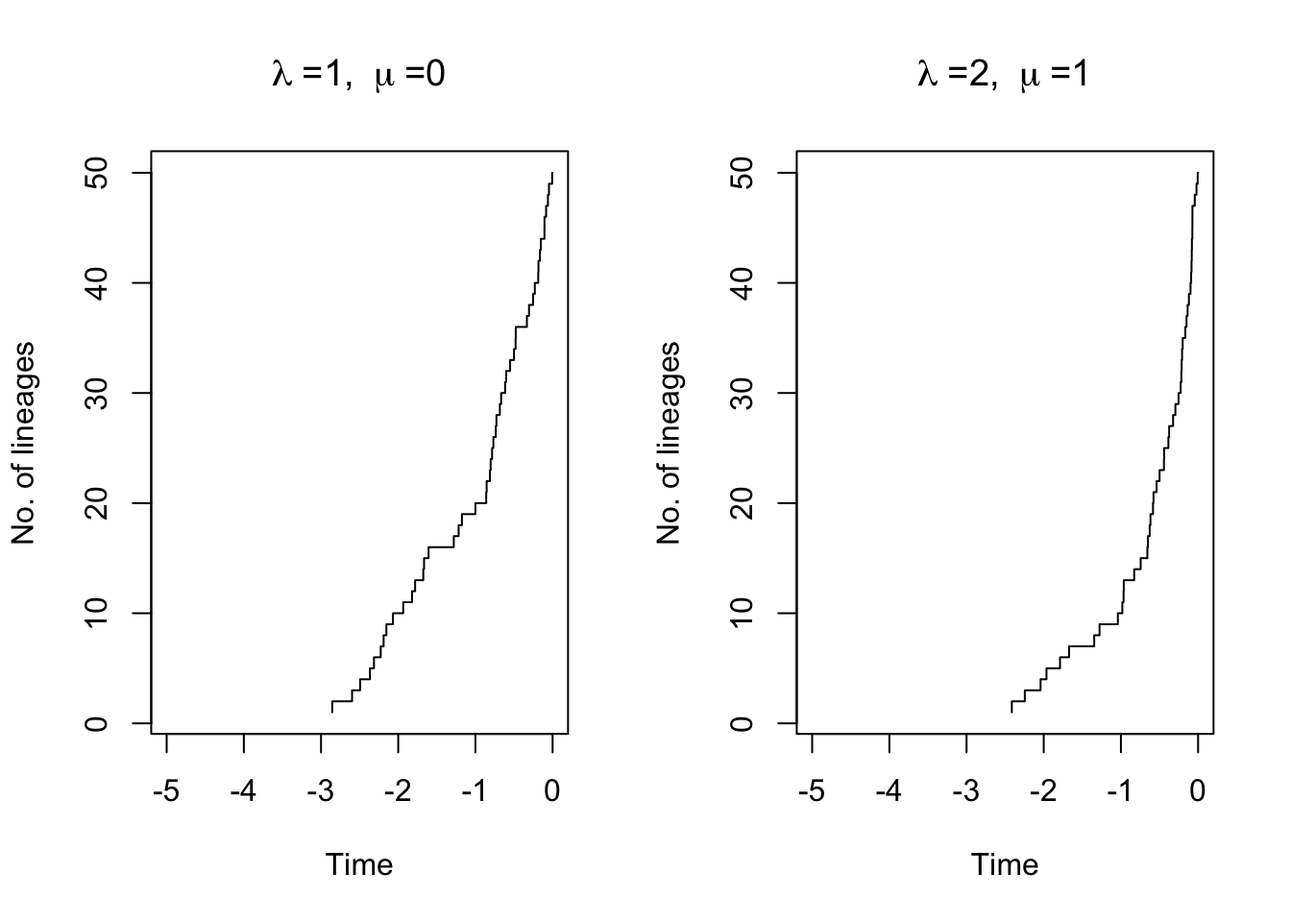
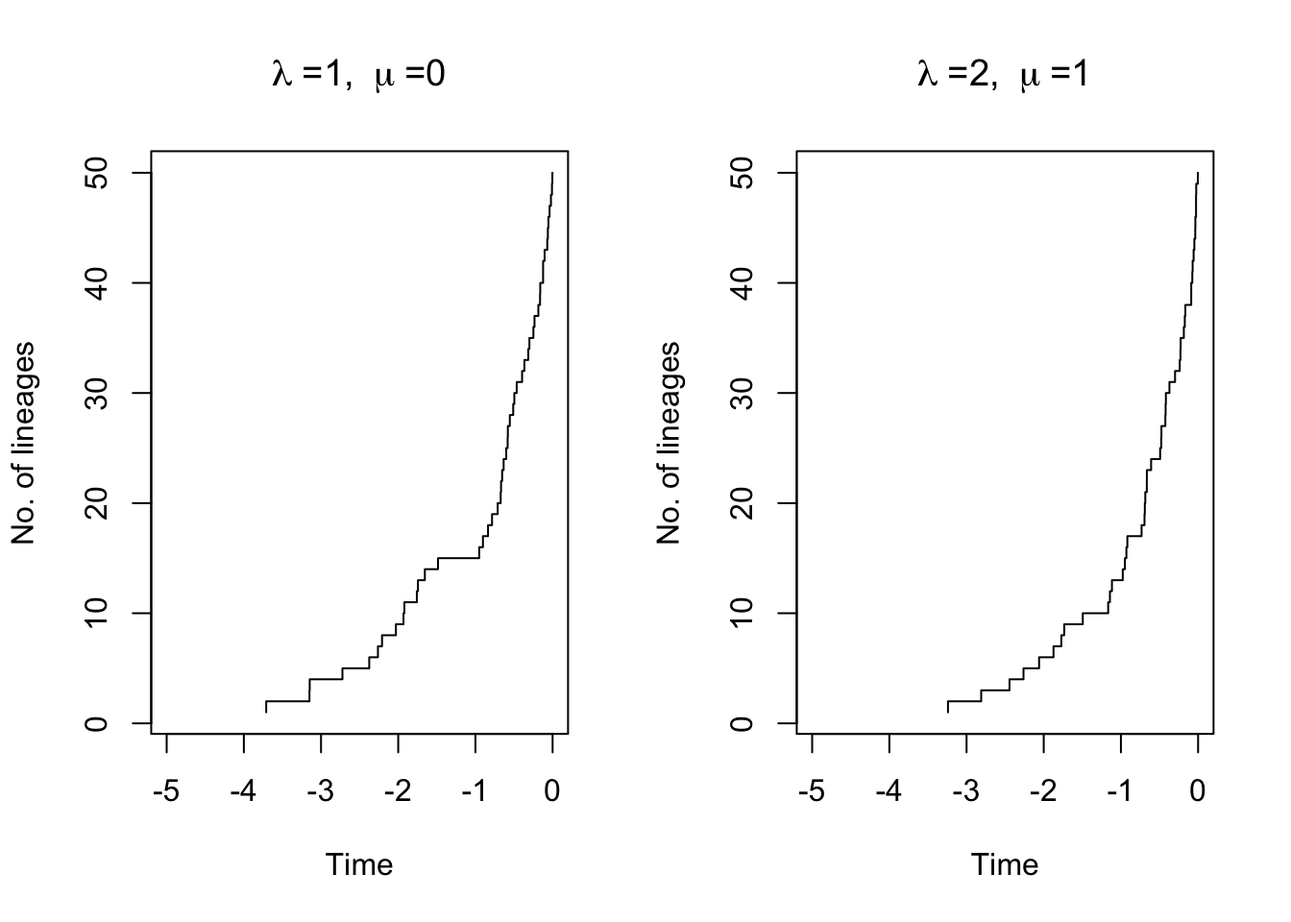
adding exercixes to yule

diff --git a/docs/topics/sse_models/fit_bd.html b/docs/topics/sse_models/fit_bd.html
@@ -211,7 +211,7 @@ window.Quarto = {
 <section id="birth-death-process" class="level2">
 <h2 class="anchored" data-anchor-id="birth-death-process">Birth death process</h2>
 <p>Now, we consider the birth-death process. Lineages split at rate <span class="math inline">\(\lambda\)</span>, and can die at rate <span class="math inline">\(\mu\)</span>.</p>
-<p>If the death rate is positive (<span class="math inline">\(\mu &gt; 0\)</span>), the process is fundamentally different. This is because the process can go extinct.</p>
+<p>If the death rate is positive (<span class="math inline">\(\mu &gt; 0\)</span>), the process is fundamentally different from the Yule model. This is because the process can go extinct.</p>
 <p>Let’s use the lapply function to generate a list of simulated outputs (lapply is like a for loop). Instead of simulating up to time <span class="math inline">\(t\)</span>, let’s simulate trees up to a fixed number of taxa – 50, in our case.</p>
 <p>Let’s see how frequently the process goes extinct before we reach 50 taxa.</p>
 <div class="cell">
@@ -231,7 +231,7 @@ window.Quarto = {
 <div class="cell">
 <div class="code-copy-outer-scaffold"><div class="sourceCode cell-code" id="cb4"><pre class="sourceCode r code-with-copy"><code class="sourceCode r"><span id="cb4-1"><a href="#cb4-1" aria-hidden="true" tabindex="-1"></a><span class="fu">print</span>(numdieoffs)</span></code></pre></div><button title="Copy to Clipboard" class="code-copy-button"><i class="bi"></i></button></div>
 <div class="cell-output cell-output-stdout">
-<pre><code>[1] 27</code></pre>
+<pre><code>[1] 32</code></pre>
 </div>
 </div>
 <p>This is sort of interesting. In the first tree we simulated above, we set <span class="math inline">\(\lambda=1\)</span> and <span class="math inline">\(\mu=0\)</span>, for a net birth rate equal to 1. In this second example, we set <span class="math inline">\(\lambda=2\)</span> and <span class="math inline">\(\mu=1\)</span>. The net birth rate still equals 1, but extinction is far more likely now.</p>
@@ -282,12 +282,11 @@ window.Quarto = {
 <li><p>Instead of simulating trees up to a fixed number of taxa, simulate trees up to a fixed time. Do you notice any differences between Yule and birth death trees in terms of the number of taxa produced by time <span class="math inline">\(t\)</span>?</p></li>
 </ol>
 </section>
-<section id="estimating-parameters-using-likelihoods" class="level2">
-<h2 class="anchored" data-anchor-id="estimating-parameters-using-likelihoods">Estimating parameters using likelihoods</h2>
-<p>There is another way to determine whether these trees are statistically indistinguishable or not. We can use the likelihood function, which quantifies the probability (density) of observing a particular tree given model parameters. If the trees are statistically indistinguishable, then it should <strong>not</strong> be possible for us to estimate the parameters of the models. If we <strong>can</strong> estimate parameters, then that means the trees contain information about whether the underlying process was Yule or birth-death.</p>
+<section id="likelihood-based-inference" class="level2">
+<h2 class="anchored" data-anchor-id="likelihood-based-inference">Likelihood-based inference</h2>
+<p>There is a principled way to determine whether a tree was produced by one process or the other. We can use the likelihood function, which quantifies the probability (density) of observing a particular tree given model parameters. The idea is to use a Generalized Likelihood Ratio test. This works because the Yule model is “nested” in the birth-death model. Setting <span class="math inline">\(\mu=0\)</span> in the birth-death model produces the Yule model.</p>
+<p>The idea behind the GLR test is that, although a more complicated model will always fit data better than a simpler one, it may not fit data “that much” better if the underlying process is in fact well-described by a simpler model. The GLR test provides way to quantify whether the improvement in fit of a more complicated model is meaningful, or not.</p>
 <p>We’ve been doing Maximum Likelihood a lot up to now. In case you need extra reading material, <a href="https://en.wikipedia.org/wiki/Maximum_likelihood_estimation">here you go</a>.</p>
-<p>We’ve seen a couple of examples of likelihood functions already in this tutorial. The solutions to the Master equations for these processes tell us the probability, <span class="math inline">\(p_n(t)\)</span>, of observing <span class="math inline">\(n\)</span> lineages by time <span class="math inline">\(t\)</span>. Put another way, this gives us the probability of observing a phylogenetic tree of height <span class="math inline">\(t\)</span> with <span class="math inline">\(n\)</span> taxa.</p>
-<p>The terminology ``likelihood’’ means that we consider <span class="math inline">\(p_n(t)\)</span> as a function of the model parameters (<span class="math inline">\(\lambda\)</span> in the Yule process, or <span class="math inline">\((\lambda, \mu)\)</span> in the birth-death process). Maximum likelihood means that, given our tree of height <span class="math inline">\(t\)</span> with <span class="math inline">\(n\)</span> taxa, we maximize <span class="math inline">\(p_n(t)\)</span> with respect to the parameters of the model. These optimal parmeter values are the Maximum Likelihood Estimate.</p>
 <p>We can create likelihood functions for these trees like so:</p>
 <div class="cell">
 <div class="code-copy-outer-scaffold"><div class="sourceCode cell-code" id="cb8"><pre class="sourceCode r code-with-copy"><code class="sourceCode r"><span id="cb8-1"><a href="#cb8-1" aria-hidden="true" tabindex="-1"></a>loglik.yule <span class="ot">&lt;-</span> <span class="fu">make.bd</span>(tree_yule)</span>
@@ -302,12 +301,12 @@ window.Quarto = {
 </div>
 <div class="code-copy-outer-scaffold"><div class="sourceCode cell-code" id="cb11"><pre class="sourceCode r code-with-copy"><code class="sourceCode r"><span id="cb11-1"><a href="#cb11-1" aria-hidden="true" tabindex="-1"></a><span class="fu">print</span>(mle.yule<span class="sc">$</span>lnLik)</span></code></pre></div><button title="Copy to Clipboard" class="code-copy-button"><i class="bi"></i></button></div>
 <div class="cell-output cell-output-stdout">
-<pre><code>[1] 92.3456</code></pre>
+<pre><code>[1] 96.51845</code></pre>
 </div>
 <div class="code-copy-outer-scaffold"><div class="sourceCode cell-code" id="cb13"><pre class="sourceCode r code-with-copy"><code class="sourceCode r"><span id="cb13-1"><a href="#cb13-1" aria-hidden="true" tabindex="-1"></a><span class="fu">print</span>(mle.yule<span class="sc">$</span>par)</span></code></pre></div><button title="Copy to Clipboard" class="code-copy-button"><i class="bi"></i></button></div>
 <div class="cell-output cell-output-stdout">
-<pre><code>      lambda           mu 
-9.158205e-01 1.908196e-17 </code></pre>
+<pre><code>   lambda        mu 
+1.4395870 0.8383959 </code></pre>
 </div>
 </div>
 <p>Looks pretty close.</p>
@@ -320,16 +319,15 @@ window.Quarto = {
 </div>
 <div class="code-copy-outer-scaffold"><div class="sourceCode cell-code" id="cb17"><pre class="sourceCode r code-with-copy"><code class="sourceCode r"><span id="cb17-1"><a href="#cb17-1" aria-hidden="true" tabindex="-1"></a><span class="fu">print</span>(mle.bd<span class="sc">$</span>lnLik)</span></code></pre></div><button title="Copy to Clipboard" class="code-copy-button"><i class="bi"></i></button></div>
 <div class="cell-output cell-output-stdout">
-<pre><code>[1] 116.5665</code></pre>
+<pre><code>[1] 106.8873</code></pre>
 </div>
 <div class="code-copy-outer-scaffold"><div class="sourceCode cell-code" id="cb19"><pre class="sourceCode r code-with-copy"><code class="sourceCode r"><span id="cb19-1"><a href="#cb19-1" aria-hidden="true" tabindex="-1"></a><span class="fu">print</span>(mle.bd<span class="sc">$</span>par)</span></code></pre></div><button title="Copy to Clipboard" class="code-copy-button"><i class="bi"></i></button></div>
 <div class="cell-output cell-output-stdout">
 <pre><code>  lambda       mu 
-2.072959 1.089829 </code></pre>
+1.858154 1.170094 </code></pre>
 </div>
 </div>
-<p>Seems like it’s kind of in the ballpark.</p>
-<p>One downside with this is that we are dealing with fairly small trees, and stochasticity is probably introducing lots of noise. If our goal is to understand the types of information we are likely to recover from realizations of these processes, we need to look at a large number of simulations so that statistical regularity kicks in.</p>
+<p>Seems like it’s kind of in the ballpark. In the exercises at the end, you are tasked to carry out a GLR test on these trees.</p>
 </section>
 <section id="benchmarking-from-simulations" class="level2">
 <h2 class="anchored" data-anchor-id="benchmarking-from-simulations">Benchmarking from simulations</h2>
@@ -427,49 +425,80 @@ window.Quarto = {
 <h2 class="anchored" data-anchor-id="birth-death-sampling-models-and-the-unidentifiability-problem">Birth-death-sampling models (and the unidentifiability problem)</h2>
 <p>In the previous section, we saw that it is in principle possible to estimate paramters of the Yule model and the birth-death model. The statistical behavior of the Maximum Likelihood Estimates might leave something to be desired (especially for the extinction rate <span class="math inline">\(\mu\)</span>), but in the limit as the number of taxa tends to infinity, our estimators should be converging in expectation to the <a href="https://en.wikipedia.org/wiki/Consistency_(statistics)">ground truth parameter values</a>.</p>
 <p>Models with this property are said to be <a href="https://en.wikipedia.org/wiki/Identifiability">identifiable</a>. The Yule Process and the birth death model are identifiable (assuming that the rates are fixed constants in time). Seemingly innocuous modifications to these models render them unidentifiable.</p>
-<p>The final example we will consider in this tutorial is the birth-death-sampling model. The primary motivation for considering the birth-death-sampling model comes from epidemiology. In that context, pathogens spread between hosts, and infection events correspond to bifurcation events in the pathogen phylogeny. Infected people are also observed over a period of time (perhaps as they show up at the hospital). Consequently, the trees produced are not ultrametric, they are heterochronous. In practice, the vast majority of individuals who are infected are also never sampled, so observed pathogen phylogenies represent a small piece of the true underlying phylogeny.</p>
-<p>In this model, three things can happen:</p>
+<p>The final examples we will consider in this tutorial is the birth-death-sampling model and the birth-death-sampling-through-time model (say that three times in a row).</p>
+<p>The birth-death-sampling model is just a birth-death model, with the extra feature that we only observe a fraction of the tips at the end. In these trees, tips are observed at the same point in time, and so the trees are ultrametric.</p>
+<p>The birth-death-sampling-through-time model accommodates a rate of sampling through time. The trees produced by this process are heterochronous, i.e.&nbsp;not ultrametric.</p>
+<p>The primary motivation for considering the birth-death-sampling-through-time model comes from epidemiology. In that context, pathogens spread between hosts, and infection events correspond to bifurcation events in the pathogen phylogeny. Infected people are also observed over a period of time (perhaps as they show up at the hospital).</p>
+<p>In the sampling-through-time model, three things can happen:</p>
 <ol type="1">
 <li><p>A lineage can split in two (at rate <span class="math inline">\(\lambda\)</span>); this corresponds to a new transmission event</p></li>
 <li><p>A lineage can die (at rate <span class="math inline">\(\mu\)</span>); this corresponds to either (i) an infected host dying, or (ii) an infected host getting better before transmitting disease</p></li>
 <li><p>A lineage (which resides in an infected host) can be sampled (at rate <span class="math inline">\(\psi\)</span>)</p></li>
 </ol>
-<p>Arguably the most important aspect of this process is that we only observe the lineages that get sampled. The phylogeny describes ancestry of these sampled lineages. This is potentially a very small portion of the entire tree.</p>
-<p>You might be able to intuit the problem already. We didn’t emphasize this in the birth-death model earlier, but in that context we are in fact also observing a subset of the entire phylogeny. If we simulate a birth-death model up to time <span class="math inline">\(t\)</span>, we never observe lineages that die out before time <span class="math inline">\(t\)</span>. The Master equation abstracted away the tree produced by the stochastic process, but in fact it can be helpful to consider dynamic updates to a phylogeny as time proceeds. A birth event corresponds to a lineage bifurcating into two lineages. A death event is somewhat different: when a lienage dies, it gets pruned away from the tree entirely. Thus, a phylogeny produced under a birth-death model is missing all of the lineages that died off before the end of the simulation.</p>
-<p>The heart of the identifiability problem in the birth-death-sampling model is that sampling functions in a very similar way to death. Lineages that are not sampled are pruned away from the tree, just like lineages that die.</p>
-<p>If a lineage can either bifurcate at rate <span class="math inline">\(\lambda\)</span>, go extinct at rate <span class="math inline">\(\mu\)</span>, or be sampled at rate <span class="math inline">\(\psi\)</span>, this is a competing rates problem. The probability a particular lineage gets sampled is <span class="math inline">\(\psi/(\lambda+\mu+\psi)\)</span>. The probability a lineage dies is <span class="math inline">\(\mu/(\lambda+\mu+\psi)\)</span>. You immediately see how to determine the probability a lineage bifurcates before those other two events take place. Some extensions of this model assume lineages can still transmit after sampling, but in this basic model we will assume that sampled lineages are quarantined and treated so that transmission is impossible.</p>
-<p>Now, if we simulate birth-death-sampling models and try to estimate parameters, we should expect to run into difficulties because it should be impossible to distinguish between lineages that are missing because they died out versus because they were never sampled. Because we cannot distinguish these types of lineages from each other, there should not be any way for us to determine the relative magnitudes of <span class="math inline">\(\psi\)</span> and <span class="math inline">\(\mu\)</span>.</p>
-<p>We will use the castor package to see if this reasoning is correct or not.</p>
+<p>These three rates appear in the Backward Kolmogorov Equation to calculate the tree likelihood. In the ultrametric case (sampling occurs at one point in time), the Backward Kolmogorov Equation looks like the birth-death model, but the initial conditions at the tips incorporate sampling probabilities.</p>
+<p>The most important aspect of these processes is that we only observe the lineages that get sampled. The phylogeny describes ancestry of these sampled lineages. This is potentially a very small portion of the entire tree.</p>
+<p>You might be able to intuit the problem already. We didn’t emphasize this in the birth-death model earlier, but in that context we are in fact also observing a subset of the entire phylogeny. If we simulate a birth-death model up to time <span class="math inline">\(t\)</span>, we never observe lineages that die out before time <span class="math inline">\(t\)</span>. The Master equation abstracted away the tree produced by the stochastic process, but in fact it can be helpful to consider dynamic updates to a phylogeny as time proceeds. A birth event corresponds to a lineage bifurcating into two lineages. A death event is somewhat different: when a lineage dies, it gets pruned away from the tree entirely. Thus, a phylogeny produced under a birth-death model is missing all of the lineages that died off before the end of the simulation.</p>
+<p>The heart of the identifiability problem in the birth-death-sampling model is that sampling functions in a very similar way to death. Lineages that are not sampled are pruned away from the tree, just like lineages that die. It turns out that this is a huge problem when sampling occurs at one point in time (ultrametric trees), but is less of a problem when sampling occurs through time (heterochronous trees).</p>
+<p>We will use the castor package to see if this for ourselves.</p>
 <div class="cell">
-<div class="code-copy-outer-scaffold"><div class="sourceCode cell-code" id="cb25"><pre class="sourceCode r code-with-copy"><code class="sourceCode r"><span id="cb25-1"><a href="#cb25-1" aria-hidden="true" tabindex="-1"></a><span class="fu">require</span>(castor)</span>
-<span id="cb25-2"><a href="#cb25-2" aria-hidden="true" tabindex="-1"></a><span class="fu">require</span>(ape)</span>
-<span id="cb25-3"><a href="#cb25-3" aria-hidden="true" tabindex="-1"></a></span>
-<span id="cb25-4"><a href="#cb25-4" aria-hidden="true" tabindex="-1"></a><span class="fu">set.seed</span>(<span class="dv">3</span>)</span>
-<span id="cb25-5"><a href="#cb25-5" aria-hidden="true" tabindex="-1"></a></span>
-<span id="cb25-6"><a href="#cb25-6" aria-hidden="true" tabindex="-1"></a>tm <span class="ot">&lt;-</span> <span class="dv">4</span></span>
-<span id="cb25-7"><a href="#cb25-7" aria-hidden="true" tabindex="-1"></a></span>
-<span id="cb25-8"><a href="#cb25-8" aria-hidden="true" tabindex="-1"></a><span class="co"># Specify model parameters:</span></span>
-<span id="cb25-9"><a href="#cb25-9" aria-hidden="true" tabindex="-1"></a>lambda <span class="ot">&lt;-</span> <span class="dv">3</span></span>
-<span id="cb25-10"><a href="#cb25-10" aria-hidden="true" tabindex="-1"></a>mu <span class="ot">&lt;-</span> <span class="dv">1</span> </span>
-<span id="cb25-11"><a href="#cb25-11" aria-hidden="true" tabindex="-1"></a>psi <span class="ot">&lt;-</span> <span class="dv">1</span></span>
-<span id="cb25-12"><a href="#cb25-12" aria-hidden="true" tabindex="-1"></a>kappa <span class="ot">&lt;-</span> <span class="dv">1</span></span>
-<span id="cb25-13"><a href="#cb25-13" aria-hidden="true" tabindex="-1"></a></span>
-<span id="cb25-14"><a href="#cb25-14" aria-hidden="true" tabindex="-1"></a>tree.bds <span class="ot">=</span> <span class="fu">generate_tree_hbds</span>(</span>
-<span id="cb25-15"><a href="#cb25-15" aria-hidden="true" tabindex="-1"></a>  <span class="at">max_time   =</span> tm,          <span class="co"># Maximum duration of the simulation process</span></span>
-<span id="cb25-16"><a href="#cb25-16" aria-hidden="true" tabindex="-1"></a>  <span class="at">lambda     =</span> lambda,</span>
-<span id="cb25-17"><a href="#cb25-17" aria-hidden="true" tabindex="-1"></a>  <span class="at">mu         =</span> mu,</span>
-<span id="cb25-18"><a href="#cb25-18" aria-hidden="true" tabindex="-1"></a>  <span class="at">psi        =</span> psi,</span>
-<span id="cb25-19"><a href="#cb25-19" aria-hidden="true" tabindex="-1"></a>  <span class="at">kappa      =</span> kappa</span>
-<span id="cb25-20"><a href="#cb25-20" aria-hidden="true" tabindex="-1"></a>)</span>
-<span id="cb25-21"><a href="#cb25-21" aria-hidden="true" tabindex="-1"></a></span>
-<span id="cb25-22"><a href="#cb25-22" aria-hidden="true" tabindex="-1"></a><span class="fu">plot</span>(tree.bds<span class="sc">$</span>tree, <span class="at">show.tip.label=</span>F, <span class="at">main=</span><span class="st">'Birth-death-sampling tree'</span>)</span></code></pre></div><button title="Copy to Clipboard" class="code-copy-button"><i class="bi"></i></button></div>
+<div class="code-copy-outer-scaffold"><div class="sourceCode cell-code" id="cb25"><pre class="sourceCode r code-with-copy"><code class="sourceCode r"><span id="cb25-1"><a href="#cb25-1" aria-hidden="true" tabindex="-1"></a><span class="fu">require</span>(castor)</span></code></pre></div><button title="Copy to Clipboard" class="code-copy-button"><i class="bi"></i></button></div>
+<div class="cell-output cell-output-stderr">
+<pre><code>Loading required package: castor</code></pre>
 </div>
-<p>These trees are generally not ultrametric, as the trees up to now have been. Because we specified a sampling rate, we observe lineages at random times. It is possible to modify the simulation so that sampling takes place at one particular time.</p>
+<div class="cell-output cell-output-stderr">
+<pre><code>Loading required package: Rcpp</code></pre>
+</div>
+<div class="code-copy-outer-scaffold"><div class="sourceCode cell-code" id="cb28"><pre class="sourceCode r code-with-copy"><code class="sourceCode r"><span id="cb28-1"><a href="#cb28-1" aria-hidden="true" tabindex="-1"></a><span class="fu">require</span>(ape)</span>
+<span id="cb28-2"><a href="#cb28-2" aria-hidden="true" tabindex="-1"></a></span>
+<span id="cb28-3"><a href="#cb28-3" aria-hidden="true" tabindex="-1"></a><span class="fu">set.seed</span>(<span class="dv">21</span>)</span>
+<span id="cb28-4"><a href="#cb28-4" aria-hidden="true" tabindex="-1"></a></span>
+<span id="cb28-5"><a href="#cb28-5" aria-hidden="true" tabindex="-1"></a>lambda_true <span class="ot">=</span> <span class="fl">0.5</span></span>
+<span id="cb28-6"><a href="#cb28-6" aria-hidden="true" tabindex="-1"></a>mu_true     <span class="ot">=</span> <span class="fl">0.3</span></span>
+<span id="cb28-7"><a href="#cb28-7" aria-hidden="true" tabindex="-1"></a></span>
+<span id="cb28-8"><a href="#cb28-8" aria-hidden="true" tabindex="-1"></a><span class="do">## Regime 1: sampling through time</span></span>
+<span id="cb28-9"><a href="#cb28-9" aria-hidden="true" tabindex="-1"></a>sim_through_time <span class="ot">=</span> <span class="fu">generate_tree_hbds</span>(</span>
+<span id="cb28-10"><a href="#cb28-10" aria-hidden="true" tabindex="-1"></a>  <span class="at">max_time   =</span> <span class="dv">20</span>,</span>
+<span id="cb28-11"><a href="#cb28-11" aria-hidden="true" tabindex="-1"></a>  <span class="at">lambda     =</span> lambda_true,</span>
+<span id="cb28-12"><a href="#cb28-12" aria-hidden="true" tabindex="-1"></a>  <span class="at">mu         =</span> mu_true,</span>
+<span id="cb28-13"><a href="#cb28-13" aria-hidden="true" tabindex="-1"></a>  <span class="at">psi        =</span> <span class="fl">0.15</span>,   <span class="co"># continuous sampling rate</span></span>
+<span id="cb28-14"><a href="#cb28-14" aria-hidden="true" tabindex="-1"></a>  <span class="at">kappa      =</span> <span class="dv">0</span>,      <span class="co"># sampled lineages removed from pool (e.g. epi-style)</span></span>
+<span id="cb28-15"><a href="#cb28-15" aria-hidden="true" tabindex="-1"></a>  <span class="at">include_extant  =</span> <span class="cn">FALSE</span>,</span>
+<span id="cb28-16"><a href="#cb28-16" aria-hidden="true" tabindex="-1"></a>  <span class="at">include_extinct =</span> <span class="cn">FALSE</span></span>
+<span id="cb28-17"><a href="#cb28-17" aria-hidden="true" tabindex="-1"></a>)</span>
+<span id="cb28-18"><a href="#cb28-18" aria-hidden="true" tabindex="-1"></a></span>
+<span id="cb28-19"><a href="#cb28-19" aria-hidden="true" tabindex="-1"></a><span class="do">## Regime 2: sampling only at the end (standard reconstructed tree)</span></span>
+<span id="cb28-20"><a href="#cb28-20" aria-hidden="true" tabindex="-1"></a>sim_end_only <span class="ot">=</span> <span class="fu">generate_tree_hbds</span>(</span>
+<span id="cb28-21"><a href="#cb28-21" aria-hidden="true" tabindex="-1"></a>  <span class="at">max_time   =</span> <span class="dv">20</span>,</span>
+<span id="cb28-22"><a href="#cb28-22" aria-hidden="true" tabindex="-1"></a>  <span class="at">lambda     =</span> lambda_true,</span>
+<span id="cb28-23"><a href="#cb28-23" aria-hidden="true" tabindex="-1"></a>  <span class="at">mu         =</span> mu_true,</span>
+<span id="cb28-24"><a href="#cb28-24" aria-hidden="true" tabindex="-1"></a>  <span class="at">psi        =</span> <span class="dv">0</span>,</span>
+<span id="cb28-25"><a href="#cb28-25" aria-hidden="true" tabindex="-1"></a>  <span class="at">CSA_times  =</span> <span class="dv">20</span>,</span>
+<span id="cb28-26"><a href="#cb28-26" aria-hidden="true" tabindex="-1"></a>  <span class="at">CSA_probs  =</span> <span class="fl">0.5</span>,    <span class="co"># rho-style sampling fraction</span></span>
+<span id="cb28-27"><a href="#cb28-27" aria-hidden="true" tabindex="-1"></a>  <span class="at">CSA_kappas =</span> <span class="dv">1</span>,</span>
+<span id="cb28-28"><a href="#cb28-28" aria-hidden="true" tabindex="-1"></a>  <span class="at">include_extant  =</span> <span class="cn">FALSE</span>,</span>
+<span id="cb28-29"><a href="#cb28-29" aria-hidden="true" tabindex="-1"></a>  <span class="at">include_extinct =</span> <span class="cn">FALSE</span></span>
+<span id="cb28-30"><a href="#cb28-30" aria-hidden="true" tabindex="-1"></a>)</span>
+<span id="cb28-31"><a href="#cb28-31" aria-hidden="true" tabindex="-1"></a></span>
+<span id="cb28-32"><a href="#cb28-32" aria-hidden="true" tabindex="-1"></a></span>
+<span id="cb28-33"><a href="#cb28-33" aria-hidden="true" tabindex="-1"></a><span class="fu">par</span>(<span class="at">mfrow=</span><span class="fu">c</span>(<span class="dv">1</span>,<span class="dv">2</span>))</span>
+<span id="cb28-34"><a href="#cb28-34" aria-hidden="true" tabindex="-1"></a></span>
+<span id="cb28-35"><a href="#cb28-35" aria-hidden="true" tabindex="-1"></a><span class="fu">plot</span>(sim_through_time<span class="sc">$</span>tree,<span class="at">show.tip.label=</span>F, </span>
+<span id="cb28-36"><a href="#cb28-36" aria-hidden="true" tabindex="-1"></a>    <span class="at">main=</span><span class="st">'Sampling thru time'</span>)</span>
+<span id="cb28-37"><a href="#cb28-37" aria-hidden="true" tabindex="-1"></a><span class="fu">plot</span>(sim_end_only<span class="sc">$</span>tree,<span class="at">show.tip.label=</span>F,</span>
+<span id="cb28-38"><a href="#cb28-38" aria-hidden="true" tabindex="-1"></a>    <span class="at">main=</span><span class="st">'Sampling at the end'</span>)</span></code></pre></div><button title="Copy to Clipboard" class="code-copy-button"><i class="bi"></i></button></div>
+<div class="cell-output-display">
+<div>
+<figure class="figure">
+<p><img src="fit_bd_files/figure-html/unnamed-chunk-12-1.png" class="img-fluid figure-img" width="672"></p>
+</figure>
+</div>
+</div>
+</div>
 </section>
 <section id="exercises-2" class="level2">
 <h2 class="anchored" data-anchor-id="exercises-2">Exercises</h2>
 <ol type="1">
-<li>Simulate a large number of birth-death-sampling trees and try to replicate our earlier benchmarking analysis to determine if it is possible to simultaneously estimate <span class="math inline">\(\lambda\)</span>, <span class="math inline">\(\mu\)</span>, and <span class="math inline">\(\psi\)</span>. You should probably use the fit_hbds_model_parametric function in castor.</li>
+<li>Simulate a large number of trees under each of the two varieties of models (sampling at the end vs.&nbsp;sampling through time). Can you tell whether the model with sampling at the end is identifiable or not? Again, it may be helpful to break into groups to work on this problem.</li>
 </ol>
 
 

diff --git a/docs/topics/sse_models/yule.html b/docs/topics/sse_models/yule.html
@@ -160,7 +160,7 @@ window.Quarto = {
 <span class="menu-text">Home</span></a>
   </li>  
   <li class="nav-item">
-    <a class="nav-link" href="../../monday.html"> <i class="bi bi-pie-chart" role="img">
+    <a class="nav-link" href="../../day1.html"> <i class="bi bi-pie-chart" role="img">
 </i> 
 <span class="menu-text">Day 1</span></a>
   </li>  
@@ -170,17 +170,17 @@ window.Quarto = {
 <span class="menu-text">Day 2</span></a>
   </li>  
   <li class="nav-item">
-    <a class="nav-link" href="../../wednesday.html"> <i class="bi bi-pie-chart" role="img">
+    <a class="nav-link" href="../../day3.html"> <i class="bi bi-pie-chart" role="img">
 </i> 
 <span class="menu-text">Day 3</span></a>
   </li>  
   <li class="nav-item">
-    <a class="nav-link" href="../../thursday.html"> <i class="bi bi-activity" role="img">
+    <a class="nav-link" href="../../day4.html"> <i class="bi bi-activity" role="img">
 </i> 
 <span class="menu-text">Day 4</span></a>
   </li>  
   <li class="nav-item">
-    <a class="nav-link" href="../../friday.html"> <i class="bi bi-tree" role="img">
+    <a class="nav-link" href="../../day5.html"> <i class="bi bi-tree" role="img">
 </i> 
 <span class="menu-text">Day 5</span></a>
   </li>  
@@ -352,10 +352,30 @@ Attaching package: 'expm'</code></pre>
 <p>These appear to be in agreement. The approximation will break down if (i) we simulate over a longer period of time, <span class="math inline">\(t\)</span>, (ii) if we simulate with a larger birth rate <span class="math inline">\(\lambda\)</span>, or (iii) truncate the Master equation at a smaller value of <span class="math inline">\(N\)</span>. You should experiment with changing all three of these quantities.</p>
 <p><strong>To summarize</strong>: the solution to the Master equation gives us a way to quantify the probability we observe a Yule tree with <span class="math inline">\(n\)</span> lineages and height <span class="math inline">\(t\)</span>. Yule trees that differ only in topology but otherwise have the same height and number of lineages are equally likely to occur in this model.</p>
 <p>This is useful for <strong>parameter estimation</strong>. But before we do that, let’s look at the birth death model with a positive death rate in the next lecture.</p>
-
-
 </section>
 </section>
+</section>
+<section id="exercises" class="level1">
+<h1>Exercises</h1>
+<ol type="1">
+<li>We can define a likelihood function and fit to a tree as follows:</li>
+</ol>
+<div class="cell">
+<div class="code-copy-outer-scaffold"><div class="sourceCode cell-code" id="cb14"><pre class="sourceCode r code-with-copy"><code class="sourceCode r"><span id="cb14-1"><a href="#cb14-1" aria-hidden="true" tabindex="-1"></a>lik.yule <span class="ot">&lt;-</span> <span class="fu">make.yule</span>(tree)</span>
+<span id="cb14-2"><a href="#cb14-2" aria-hidden="true" tabindex="-1"></a>fit.yule <span class="ot">&lt;-</span> <span class="fu">find.mle</span>(lik.yule, <span class="at">x.init =</span> <span class="fl">0.1</span>)</span>
+<span id="cb14-3"><a href="#cb14-3" aria-hidden="true" tabindex="-1"></a><span class="fu">coef</span>(fit.yule)      <span class="co"># lambda estimate</span></span></code></pre></div><button title="Copy to Clipboard" class="code-copy-button"><i class="bi"></i></button></div>
+<div class="cell-output cell-output-stdout">
+<pre><code>  lambda 
+1.149843 </code></pre>
+</div>
+<div class="code-copy-outer-scaffold"><div class="sourceCode cell-code" id="cb16"><pre class="sourceCode r code-with-copy"><code class="sourceCode r"><span id="cb16-1"><a href="#cb16-1" aria-hidden="true" tabindex="-1"></a><span class="fu">logLik</span>(fit.yule)</span></code></pre></div><button title="Copy to Clipboard" class="code-copy-button"><i class="bi"></i></button></div>
+<div class="cell-output cell-output-stdout">
+<pre><code>'log Lik.' 109.3909 (df=1)</code></pre>
+</div>
+</div>
+<p>Carry out a simulation study to determine how well we are able to estimate <span class="math inline">\(\lambda\)</span>. Specifically, it would be good to find out whether our ability to estimate <span class="math inline">\(\lambda\)</span> is improved by having more tips in our tree. Simulate trees for fixed numbers of taxa. Do you notice any correlations between tree height and <span class="math inline">\(\hat{\lambda}\)</span>? It may be helpful to break up into groups.</p>
+
+
 </section>
 
 </main> <!-- /main -->

diff --git a/docs/topics/bayesian_discrete_trait_analysis/H5N1_tutorial.html b/docs/topics/bayesian_discrete_trait_analysis/H5N1_tutorial.html
@@ -96,7 +96,7 @@ ul.task-list li input[type="checkbox"] {
 <span class="menu-text">Home</span></a>
   </li>  
   <li class="nav-item">
-    <a class="nav-link" href="../../monday.html"> <i class="bi bi-pie-chart" role="img">
+    <a class="nav-link" href="../../day1.html"> <i class="bi bi-pie-chart" role="img">
 </i> 
 <span class="menu-text">Day 1</span></a>
   </li>  
@@ -106,17 +106,17 @@ ul.task-list li input[type="checkbox"] {
 <span class="menu-text">Day 2</span></a>
   </li>  
   <li class="nav-item">
-    <a class="nav-link" href="../../wednesday.html"> <i class="bi bi-pie-chart" role="img">
+    <a class="nav-link" href="../../day3.html"> <i class="bi bi-pie-chart" role="img">
 </i> 
 <span class="menu-text">Day 3</span></a>
   </li>  
   <li class="nav-item">
-    <a class="nav-link" href="../../thursday.html"> <i class="bi bi-activity" role="img">
+    <a class="nav-link" href="../../day4.html"> <i class="bi bi-activity" role="img">
 </i> 
 <span class="menu-text">Day 4</span></a>
   </li>  
   <li class="nav-item">
-    <a class="nav-link" href="../../friday.html"> <i class="bi bi-tree" role="img">
+    <a class="nav-link" href="../../day5.html"> <i class="bi bi-tree" role="img">
 </i> 
 <span class="menu-text">Day 5</span></a>
   </li>  

diff --git a/docs/topics/bayesian_discrete_trait_analysis/remote_runs.html b/docs/topics/bayesian_discrete_trait_analysis/remote_runs.html
@@ -96,7 +96,7 @@ ul.task-list li input[type="checkbox"] {
 <span class="menu-text">Home</span></a>
   </li>  
   <li class="nav-item">
-    <a class="nav-link" href="../../monday.html"> <i class="bi bi-pie-chart" role="img">
+    <a class="nav-link" href="../../day1.html"> <i class="bi bi-pie-chart" role="img">
 </i> 
 <span class="menu-text">Day 1</span></a>
   </li>  
@@ -106,17 +106,17 @@ ul.task-list li input[type="checkbox"] {
 <span class="menu-text">Day 2</span></a>
   </li>  
   <li class="nav-item">
-    <a class="nav-link" href="../../wednesday.html"> <i class="bi bi-pie-chart" role="img">
+    <a class="nav-link" href="../../day3.html"> <i class="bi bi-pie-chart" role="img">
 </i> 
 <span class="menu-text">Day 3</span></a>
   </li>  
   <li class="nav-item">
-    <a class="nav-link" href="../../thursday.html"> <i class="bi bi-activity" role="img">
+    <a class="nav-link" href="../../day4.html"> <i class="bi bi-activity" role="img">
 </i> 
 <span class="menu-text">Day 4</span></a>
   </li>  
   <li class="nav-item">
-    <a class="nav-link" href="../../friday.html"> <i class="bi bi-tree" role="img">
+    <a class="nav-link" href="../../day5.html"> <i class="bi bi-tree" role="img">
 </i> 
 <span class="menu-text">Day 5</span></a>
   </li>  

diff --git a/docs/topics/intro_to_phylodynamics/multi_type_birth_death.html b/docs/topics/intro_to_phylodynamics/multi_type_birth_death.html
@@ -160,7 +160,7 @@ window.Quarto = {
 <span class="menu-text">Home</span></a>
   </li>  
   <li class="nav-item">
-    <a class="nav-link" href="../../monday.html"> <i class="bi bi-pie-chart" role="img">
+    <a class="nav-link" href="../../day1.html"> <i class="bi bi-pie-chart" role="img">
 </i> 
 <span class="menu-text">Day 1</span></a>
   </li>  
@@ -170,17 +170,17 @@ window.Quarto = {
 <span class="menu-text">Day 2</span></a>
   </li>  
   <li class="nav-item">
-    <a class="nav-link" href="../../wednesday.html"> <i class="bi bi-pie-chart" role="img">
+    <a class="nav-link" href="../../day3.html"> <i class="bi bi-pie-chart" role="img">
 </i> 
 <span class="menu-text">Day 3</span></a>
   </li>  
   <li class="nav-item">
-    <a class="nav-link" href="../../thursday.html"> <i class="bi bi-activity" role="img">
+    <a class="nav-link" href="../../day4.html"> <i class="bi bi-activity" role="img">
 </i> 
 <span class="menu-text">Day 4</span></a>
   </li>  
   <li class="nav-item">
-    <a class="nav-link" href="../../friday.html"> <i class="bi bi-tree" role="img">
+    <a class="nav-link" href="../../day5.html"> <i class="bi bi-tree" role="img">
 </i> 
 <span class="menu-text">Day 5</span></a>
   </li>  
